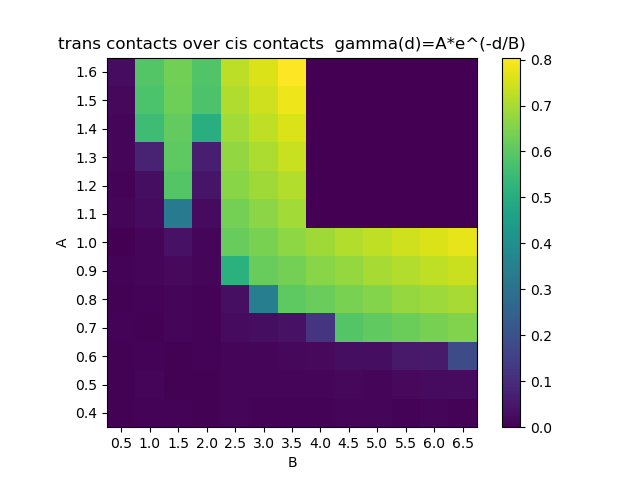
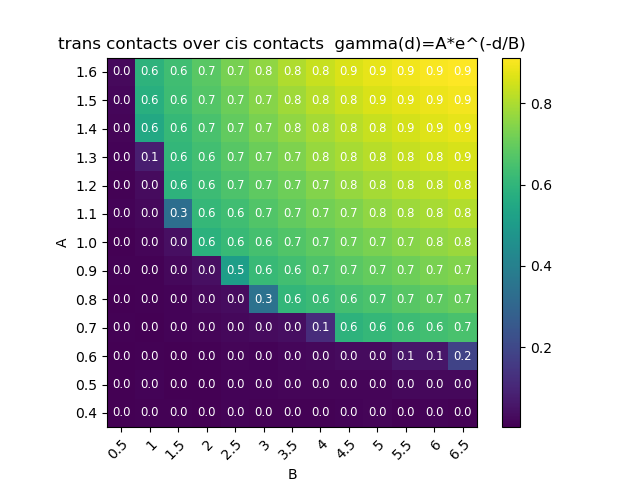
Overlay numerical values of order parameter in order parameter imshow

diff --git a/6_extra_tools/phase_diagram_maker.py b/6_extra_tools/phase_diagram_maker.py
@@ -2,10 +2,10 @@ import numpy as np
 import matplotlib.pyplot as plt
 
 path = '/work/dipierrolab/douglas/final_Hi-C_maps/'
-
+'''
 n = 175
 phase_diagram = np.zeros((13,13))
-'''
+
 # Populate bottom left block of matrix with the order parameter trans_contacts/cis_contacts
 for i in range(7):
     for j in range(7):
@@ -13,7 +13,7 @@ for i in range(7):
         cis_contacts = np.sum(np.triu(matrix[0:2500,0:2500])+np.triu(matrix[2500:5000,2500:5000]))
         trans_contacts = np.sum(matrix[0:2500,2500:5000])
         phase_diagram[i,j] = trans_contacts/cis_contacts
-        print(round((n-174)*100/133),' percent done')
+        print(round((n-174)*100/182),' percent done')
         n += 1
 n += 1 # because sim 224 was unrelated
 
@@ -24,7 +24,7 @@ for i in range(7,13):
         cis_contacts = np.sum(np.triu(matrix[0:2500,0:2500])+np.triu(matrix[2500:5000,2500:5000]))
         trans_contacts = np.sum(matrix[0:2500,2500:5000])
         phase_diagram[i,j] = trans_contacts/cis_contacts
-        print(round((n-175)*100/133),' percent done')
+        print(round((n-175)*100/182),' percent done')
         n += 1
 
 # Populate bottom right block of matrix with the order parameter trans_contacts/cis_contacts
@@ -34,17 +34,51 @@ for i in range(7):
         cis_contacts = np.sum(np.triu(matrix[0:2500,0:2500])+np.triu(matrix[2500:5000,2500:5000]))
         trans_contacts = np.sum(matrix[0:2500,2500:5000])
         phase_diagram[i,j] = trans_contacts/cis_contacts
-        print(round((n-175)*100/133),' percent done')
+        print(round((n-175)*100/182),' percent done')
         n += 1
+
+# Populate top right block of matrix with the order parameter trans_contacts/cis_contacts
+for i in range(7,13):
+    for j in range(7,13):
+        matrix = np.loadtxt(path+'Hi-C_directory_'+str(n)+'.txt') # Hi-C map for simulation n.
+        cis_contacts = np.sum(np.triu(matrix[0:2500,0:2500])+np.triu(matrix[2500:5000,2500:5000]))
+        trans_contacts = np.sum(matrix[0:2500,2500:5000])
+        phase_diagram[i,j] = trans_contacts/cis_contacts
+        print(round((n-175)*100/182),' percent done')
+        n += 1
+
+np.savetxt('phase_diagram.txt',phase_diagram)
 '''
-#np.savetxt('phase_diagram.txt',phase_diagram)
 phase_diagram = np.loadtxt('phase_diagram.txt')
 
-plt.imshow(phase_diagram, origin = 'lower')
+# Plot the phase diagram
+fig, ax = plt.subplots()
+im = ax.imshow(phase_diagram,origin='lower')
+
+A = [0.5,1,1.5,2,2.5,3,3.5,4,4.5,5,5.5,6,6.5]
+B = [0.4,0.5,0.6,0.7,0.8,0.9,1.0,1.1,1.2,1.3,1.4,1.5,1.6]
+
+# We want to show all ticks...
+ax.set_xticks(np.arange(len(A)))
+ax.set_yticks(np.arange(len(B)))
+# ... and label them with the respective list entries
+ax.set_xticklabels(A)
+ax.set_yticklabels(B)
+
+# Rotate the tick labels and set their alignment.
+plt.setp(ax.get_xticklabels(), rotation=45, ha="right",
+         rotation_mode="anchor")
+
+# Loop over data dimensions and create text annotations.
+for i in range(len(B)):
+    for j in range(len(A)):
+        text = ax.text(j, i, round(phase_diagram[i, j],1),
+                       ha="center", va="center", color="w",size='small')
+
+ax.set_title("phase_diagram of local A (in tons/year)")
 plt.xlabel('B')
 plt.ylabel('A')
-plt.xticks(ticks = range(13), labels = np.linspace(0.5,6.5,13))
-plt.yticks(ticks = range(13), labels = [0.4,0.5,0.6,0.7,0.8,0.9,1.0,1.1,1.2,1.3,1.4,1.5,1.6])
 plt.title('trans contacts over cis contacts  gamma(d)=A*e^(-d/B)')
-plt.colorbar()
+plt.colorbar(im)
 plt.savefig('phase_diagram.png')
+plt.show()

diff --git a/4_Hi-C/Hi-C_averager.py b/4_Hi-C/Hi-C_averager.py
@@ -3,7 +3,7 @@ import matplotlib.pyplot as plt
 import matplotlib as mpl
 
 path = "/work/dipierrolab/douglas/final_Hi-C_maps/"
-for i in {178,185,192,199,213,220,228,235,242,249,256,263}:
+for i in {178,185,192,199,206,213,220,228,235,242,249,256,263}:
     HiC_Matrices = []
     number_of_matrices = 0
     for j in {1}:#part
